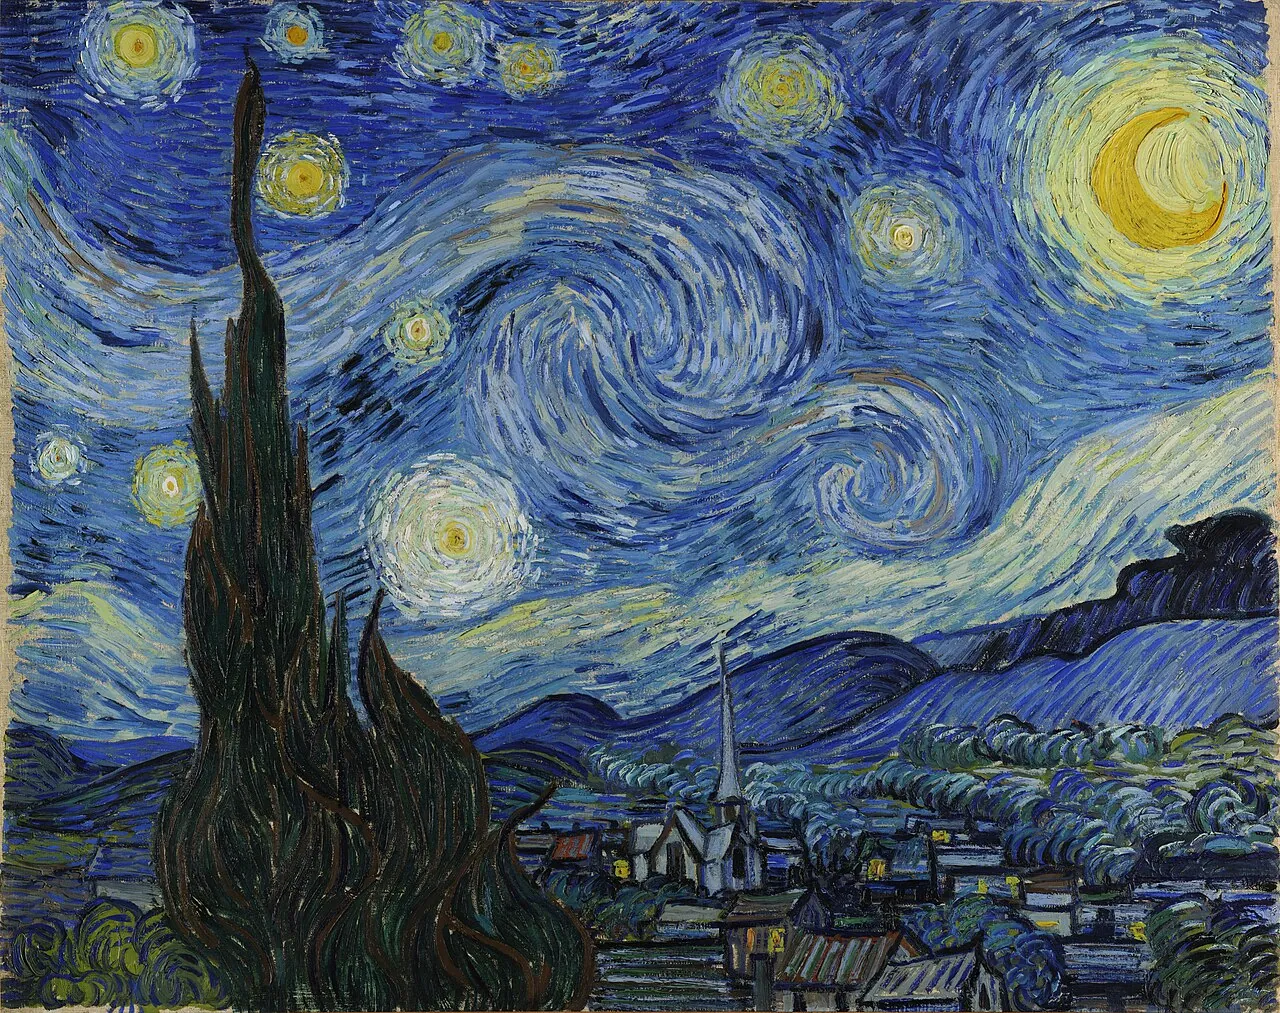
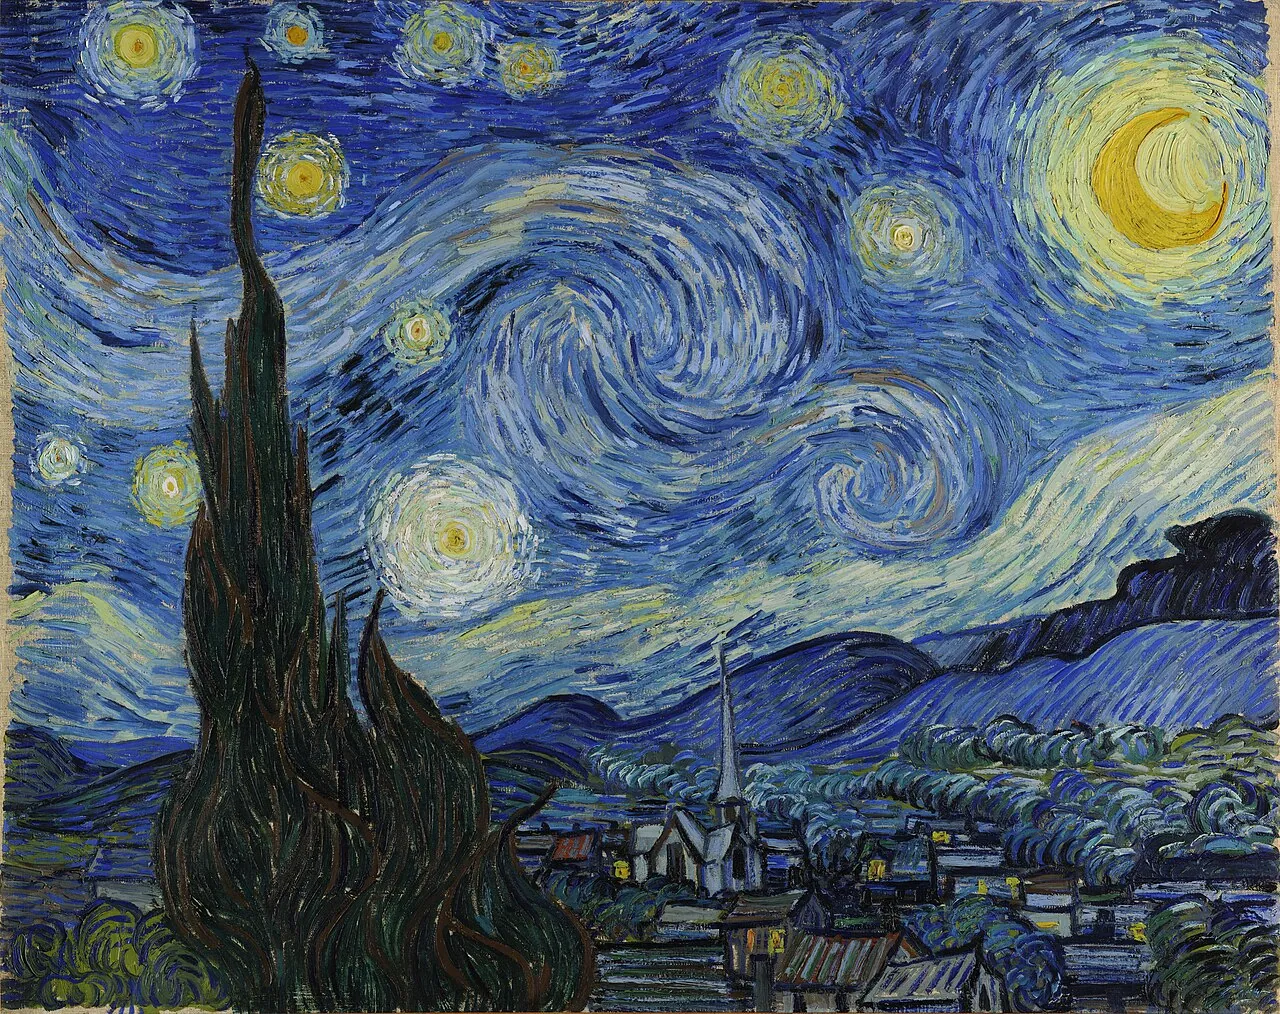
Art images from Wikimedia Commons (automated)

diff --git a/js/data/decouvrir/arts-images.js b/js/data/decouvrir/arts-images.js
@@ -169,7 +169,7 @@ export const IMAGES_OEUVRES = {
 "nuit-etoilee": {
 "src": "img/arts/nuit-etoilee.webp",
 "w": 1280,
-"h": 1013,
+"h": 1014,
 "fichier": "Van_Gogh_-_Starry_Night_-_Google_Art_Project.jpg",
 "page": "https://commons.wikimedia.org/wiki/File:Van_Gogh_-_Starry_Night_-_Google_Art_Project.jpg",
 "licence": "Public domain",

diff --git a/tools/art-images-rapport.md b/tools/art-images-rapport.md
@@ -19,7 +19,7 @@
 | liberte | La Liberté guidant le peuple | La_Liberté_guidant_le_peuple_-_Eugène_Delacroix_-_Musée_du_Louvre_Peintures_RF_129_-_après_restauration_2024.jpg | Public domain · Eugène Delacroix | 1280×1024, 183 Ko |
 | glaneuses | Des glaneuses | Jean-François_Millet_-_Gleaners_-_Google_Art_Project_2.jpg | Public domain · Jean-François Millet | 1280×958, 243 Ko |
 | impression | Impression, soleil levant | Claude_Monet,_Impression,_soleil_levant.jpg | Public domain · Claude Monet | 1280×996, 357 Ko |
-| nuit-etoilee | en:The Starry Night | Van_Gogh_-_Starry_Night_-_Google_Art_Project.jpg | Public domain · Vincent van Gogh | 1280×1013, 462 Ko |
+| nuit-etoilee | en:The Starry Night | Van_Gogh_-_Starry_Night_-_Google_Art_Project.jpg | Public domain · Vincent van Gogh | 1280×1014, 478 Ko |
 | vague | La Grande Vague de Kanagawa | Tsunami_by_hokusai_19th_century.jpg | Public domain · Katsushika Hokusai | 1280×860, 314 Ko |
 | tour-eiffel | Tour Eiffel | Tour_Eiffel_Wikimedia_Commons.jpg | Public domain · Benh LIEU SONG | 1280×2369, 385 Ko |
 | penseur | Le Penseur | Le_Penseur_in_the_Jardin_du_Musée_Rodin,_Paris_March_2014.jpg | Public domain · Thibsweb | 1280×1920, 332 Ko |
